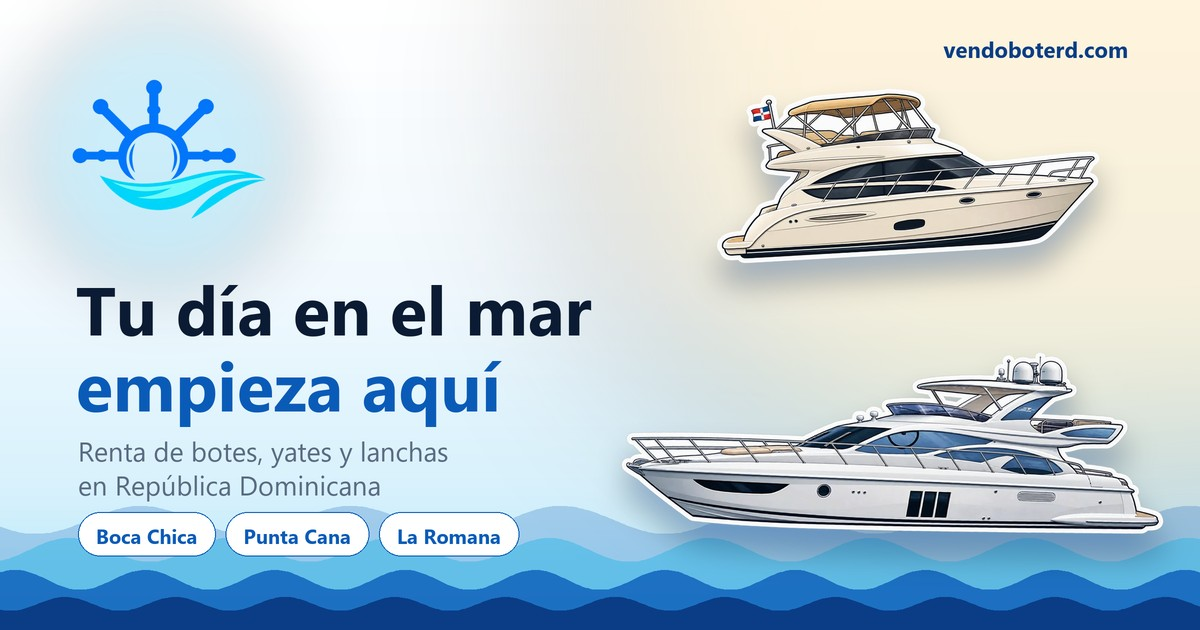
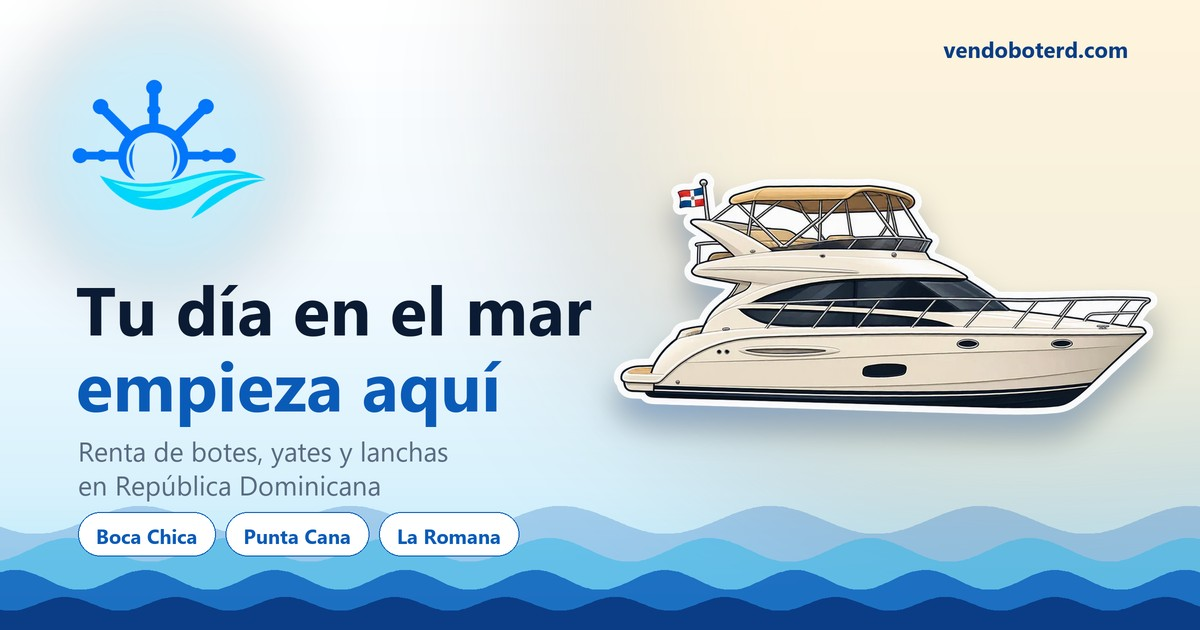
Hero y OG: solo el sticker de la embarcación con la bandera

Changed region(s): [[0.4933, 0.1206, 0.9867, 0.9048]]

diff --git a/public/index.html b/public/index.html
@@ -12,7 +12,7 @@
   <link rel="preconnect" href="https://fonts.gstatic.com" crossorigin />
   <link rel="stylesheet" href="https://fonts.googleapis.com/css2?family=Fraunces:ital,opsz,wght@0,9..144,300..900;1,9..144,300..900&family=Inter:wght@300;400;500;600;700&family=DM+Mono:wght@400;500&display=swap" />
   <link rel="preload" as="image" href="/assets/img/logo-hd.webp" type="image/webp" fetchpriority="high" />
-  <link rel="stylesheet" href="/assets/css/style.css?v=20261120w" />
+  <link rel="stylesheet" href="/assets/css/style.css?v=20261120x" />
 </head>
 <body>
 
@@ -74,7 +74,6 @@
     <span class="hx-gull g1"><svg width="34" height="14" viewBox="0 0 34 14"><path d="M1 10 Q9 1 17 9 Q25 1 33 10" fill="none" stroke="#0a3d85" stroke-width="2" stroke-linecap="round" opacity=".5"/></svg></span>
     <span class="hx-gull g2"><svg width="24" height="10" viewBox="0 0 34 14"><path d="M1 10 Q9 1 17 9 Q25 1 33 10" fill="none" stroke="#0a3d85" stroke-width="2.4" stroke-linecap="round" opacity=".4"/></svg></span>
     <img class="hx-sticker hx-st-a" src="/assets/img/sticker-flybridge.webp" alt="" width="900" height="433" loading="lazy" decoding="async" />
-    <img class="hx-sticker hx-st-b" src="/assets/img/sticker-yate.webp" alt="" width="1000" height="339" loading="lazy" decoding="async" />
     <span class="hx-spark" style="left:18%;bottom:24%"></span><span class="hx-spark" style="left:31%;bottom:18%;animation-delay:.8s"></span>
     <span class="hx-spark" style="right:22%;bottom:22%;animation-delay:1.4s"></span><span class="hx-spark" style="right:34%;bottom:16%;animation-delay:2s"></span>
   </div>

diff --git a/public/assets/css/style.css b/public/assets/css/style.css
@@ -2209,8 +2209,7 @@ ul { list-style: none; }
 @keyframes hxFoam{from{stroke-dashoffset:0}to{stroke-dashoffset:-400}}
 /* Stickers decorativos de yates: a los lados del contenido, sobre las olas */
 .hx-sticker{position:absolute;height:auto;max-width:none;display:none;filter:drop-shadow(0 14px 18px rgba(10,61,133,.22));opacity:0;animation:hxStIn 1s cubic-bezier(.2,.8,.2,1) .5s forwards,hxBob 7s ease-in-out 1.5s infinite}
-.hx-st-a{left:max(1.5vw,10px);top:36%;width:clamp(210px,21vw,340px);rotate:-5deg}
-.hx-st-b{right:max(1.5vw,10px);top:25%;width:clamp(250px,26vw,430px);rotate:4deg;animation-delay:.7s,2.4s}
+.hx-st-a{left:max(2vw,10px);top:34%;width:clamp(240px,24vw,400px);rotate:-5deg}
 @keyframes hxStIn{from{opacity:0;transform:translateY(26px) scale(.94)}to{opacity:1;transform:none}}
 @media (min-width:1080px){.hx-sticker{display:block}}
 @media (max-height:720px){.hx-sub{display:none}.hx-badge{display:none}}

diff --git a/public/complete-profile.html b/public/complete-profile.html
@@ -11,7 +11,7 @@
   <link rel="preconnect" href="https://fonts.googleapis.com" />
   <link rel="preconnect" href="https://fonts.gstatic.com" crossorigin />
   <link rel="stylesheet" href="https://fonts.googleapis.com/css2?family=Fraunces:ital,opsz,wght@0,9..144,300..900;1,9..144,300..900&family=Inter:wght@300;400;500;600;700&family=DM+Mono:wght@400;500&display=swap" />
-  <link rel="stylesheet" href="/assets/css/style.css?v=20261120w" />
+  <link rel="stylesheet" href="/assets/css/style.css?v=20261120x" />
   <style>
     body { background: linear-gradient(135deg, #e8f4fd 0%, #f0f7ff 50%, #dceefb 100%); min-height: 100vh; overflow-x: hidden; }
     .cp-page { min-height: 100svh; display: grid; place-items: center; padding: 2rem 1rem; }

diff --git a/public/auth.html b/public/auth.html
@@ -11,7 +11,7 @@
   <link rel="preconnect" href="https://fonts.googleapis.com" />
   <link rel="preconnect" href="https://fonts.gstatic.com" crossorigin />
   <link rel="stylesheet" href="https://fonts.googleapis.com/css2?family=Fraunces:ital,opsz,wght@0,9..144,300..900;1,9..144,300..900&family=Inter:wght@300;400;500;600;700&family=DM+Mono:wght@400;500&display=swap" />
-  <link rel="stylesheet" href="/assets/css/style.css?v=20261120w" />
+  <link rel="stylesheet" href="/assets/css/style.css?v=20261120x" />
   <style>
     body { background: linear-gradient(135deg, #e8f4fd 0%, #f0f7ff 50%, #dceefb 100%); min-height: 100vh; overflow-x: hidden; }
     .auth-page { background: transparent; }

diff --git a/public/ventas.html b/public/ventas.html
@@ -11,7 +11,7 @@
   <link rel="preconnect" href="https://fonts.googleapis.com" />
   <link rel="preconnect" href="https://fonts.gstatic.com" crossorigin />
   <link rel="stylesheet" href="https://fonts.googleapis.com/css2?family=Fraunces:ital,opsz,wght@0,9..144,300..900;1,9..144,300..900&family=Inter:wght@300;400;500;600;700&family=DM+Mono:wght@400;500&display=swap" />
-  <link rel="stylesheet" href="/assets/css/style.css?v=20261120w" />
+  <link rel="stylesheet" href="/assets/css/style.css?v=20261120x" />
   <style>
     /* ── Misma cuadrícula que el catálogo de renta (tarjetas 4:3) ── */
     #sale-grid { grid-template-columns: repeat(auto-fill, minmax(320px, 1fr)); }

diff --git a/public/admin.html b/public/admin.html
@@ -9,7 +9,7 @@
   <link rel="preconnect" href="https://fonts.googleapis.com" />
   <link rel="preconnect" href="https://fonts.gstatic.com" crossorigin />
   <link rel="stylesheet" href="https://fonts.googleapis.com/css2?family=Fraunces:ital,opsz,wght@0,9..144,300..900;1,9..144,300..900&family=Inter:wght@300;400;500;600;700&family=DM+Mono:wght@400;500&display=swap" />
-  <link rel="stylesheet" href="/assets/css/style.css?v=20261120w" />
+  <link rel="stylesheet" href="/assets/css/style.css?v=20261120x" />
   <style>
     /* ── Admin Calendar Redesign ── */
     .cal-shell {

diff --git a/public/embarcaciones.html b/public/embarcaciones.html
@@ -10,7 +10,7 @@
   <link rel="preconnect" href="https://fonts.googleapis.com" />
   <link rel="preconnect" href="https://fonts.gstatic.com" crossorigin />
   <link rel="stylesheet" href="https://fonts.googleapis.com/css2?family=Fraunces:ital,opsz,wght@0,9..144,300..900;1,9..144,300..900&family=Inter:wght@300;400;500;600;700&family=DM+Mono:wght@400;500&display=swap" />
-  <link rel="stylesheet" href="/assets/css/style.css?v=20261120w" />
+  <link rel="stylesheet" href="/assets/css/style.css?v=20261120x" />
   <!--SEO_LOCATION-->
 </head>
 <body>

diff --git a/public/boat.html b/public/boat.html
@@ -10,7 +10,7 @@
   <link rel="preconnect" href="https://fonts.googleapis.com" />
   <link rel="preconnect" href="https://fonts.gstatic.com" crossorigin />
   <link rel="stylesheet" href="https://fonts.googleapis.com/css2?family=Fraunces:ital,opsz,wght@0,9..144,300..900;1,9..144,300..900&family=Inter:wght@300;400;500;600;700&family=DM+Mono:wght@400;500&display=swap" />
-  <link rel="stylesheet" href="/assets/css/style.css?v=20261120w" />
+  <link rel="stylesheet" href="/assets/css/style.css?v=20261120x" />
 </head>
 <body>
 

diff --git a/public/dashboard.html b/public/dashboard.html
@@ -11,7 +11,7 @@
   <link rel="preconnect" href="https://fonts.googleapis.com" />
   <link rel="preconnect" href="https://fonts.gstatic.com" crossorigin />
   <link rel="stylesheet" href="https://fonts.googleapis.com/css2?family=Fraunces:ital,opsz,wght@0,9..144,300..900;1,9..144,300..900&family=Inter:wght@300;400;500;600;700&family=DM+Mono:wght@400;500&display=swap" />
-  <link rel="stylesheet" href="/assets/css/style.css?v=20261120w" />
+  <link rel="stylesheet" href="/assets/css/style.css?v=20261120x" />
 </head>
 <body>
 

diff --git a/public/pago-resultado.html b/public/pago-resultado.html
@@ -10,7 +10,7 @@
   <link rel="preconnect" href="https://fonts.googleapis.com" />
   <link rel="preconnect" href="https://fonts.gstatic.com" crossorigin />
   <link rel="stylesheet" href="https://fonts.googleapis.com/css2?family=Fraunces:ital,opsz,wght@0,9..144,300..900;1,9..144,300..900&family=Inter:wght@300;400;500;600;700&family=DM+Mono:wght@400;500&display=swap" />
-  <link rel="stylesheet" href="/assets/css/style.css?v=20261120w" />
+  <link rel="stylesheet" href="/assets/css/style.css?v=20261120x" />
 </head>
 <body>
 

diff --git a/public/privacidad.html b/public/privacidad.html
@@ -10,7 +10,7 @@
   <link rel="preconnect" href="https://fonts.googleapis.com" />
   <link rel="preconnect" href="https://fonts.gstatic.com" crossorigin />
   <link rel="stylesheet" href="https://fonts.googleapis.com/css2?family=Fraunces:ital,opsz,wght@0,9..144,300..900;1,9..144,300..900&family=Inter:wght@300;400;500;600;700&family=DM+Mono:wght@400;500&display=swap" />
-  <link rel="stylesheet" href="/assets/css/style.css?v=20261120w" />
+  <link rel="stylesheet" href="/assets/css/style.css?v=20261120x" />
 </head>
 <body>
 

diff --git a/public/reembolsos.html b/public/reembolsos.html
@@ -10,7 +10,7 @@
   <link rel="preconnect" href="https://fonts.googleapis.com" />
   <link rel="preconnect" href="https://fonts.gstatic.com" crossorigin />
   <link rel="stylesheet" href="https://fonts.googleapis.com/css2?family=Fraunces:ital,opsz,wght@0,9..144,300..900;1,9..144,300..900&family=Inter:wght@300;400;500;600;700&family=DM+Mono:wght@400;500&display=swap" />
-  <link rel="stylesheet" href="/assets/css/style.css?v=20261120w" />
+  <link rel="stylesheet" href="/assets/css/style.css?v=20261120x" />
 </head>
 <body>
 
